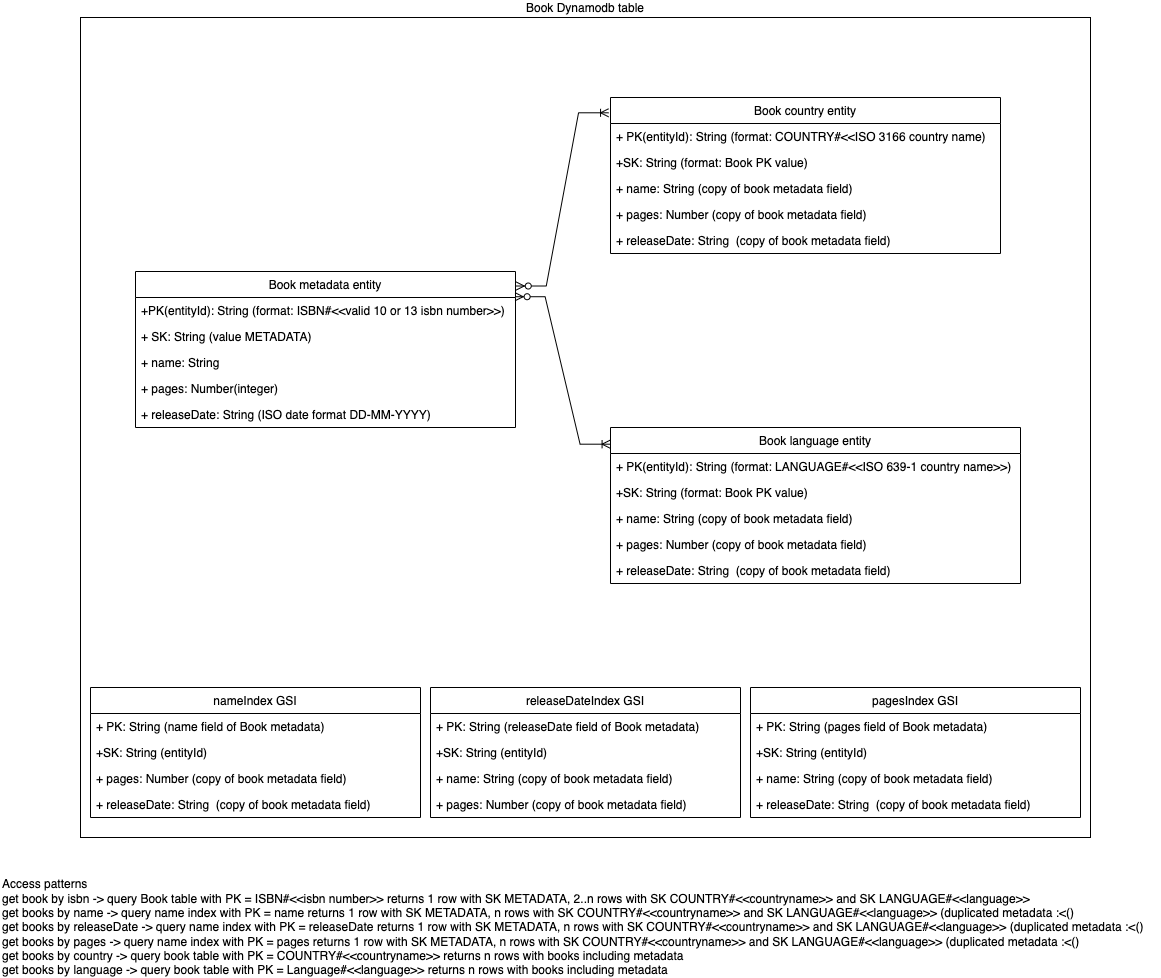
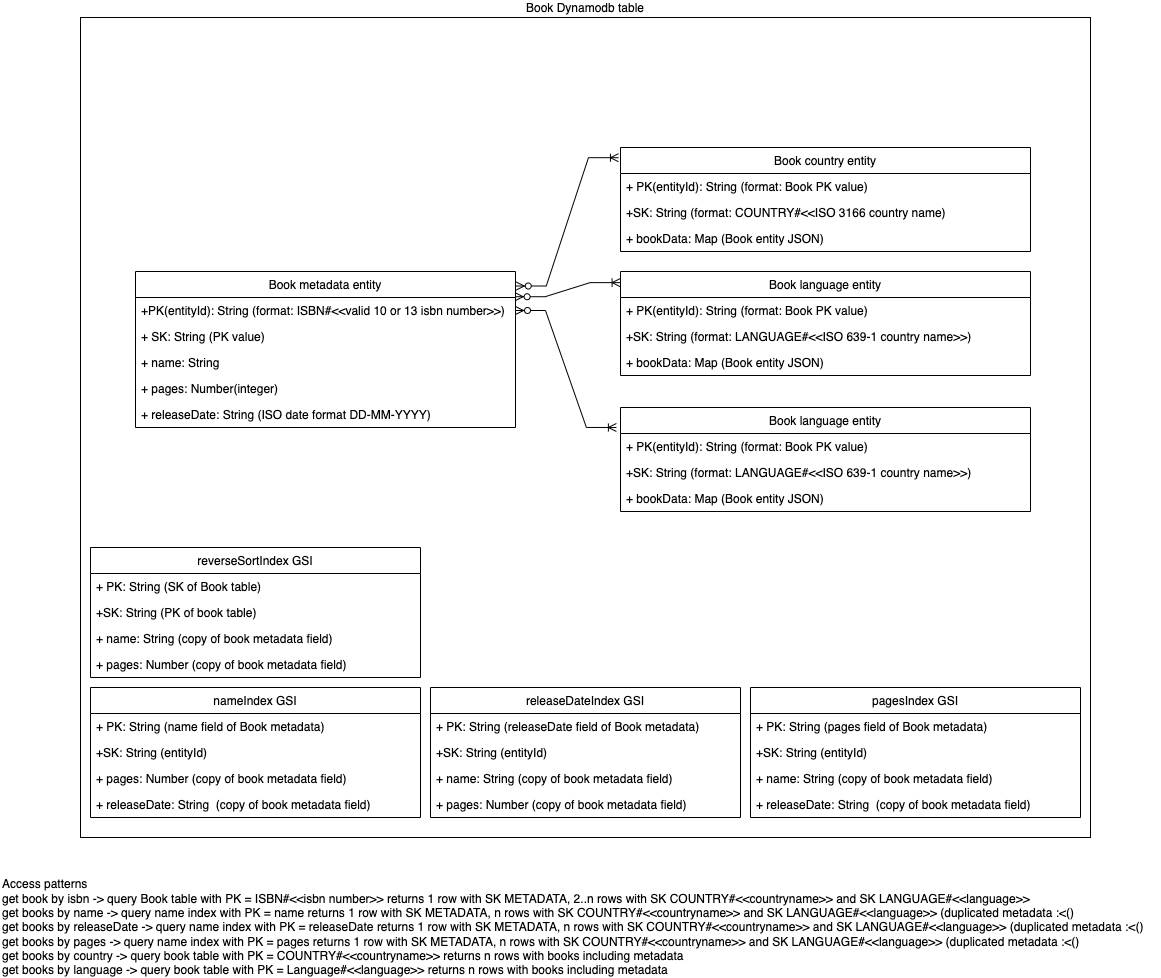
Updated datamodel

diff --git a/README.md b/README.md
@@ -36,8 +36,6 @@ Do all use cases need to be handled (in the same way) by the admin or the end-us
 
 ## Datamodel
 
-TODO: Update model with author entity and incorporate bookData
-
 ![Datamodel diagram](datamodel.png)
 
 ## Non functional requirements
